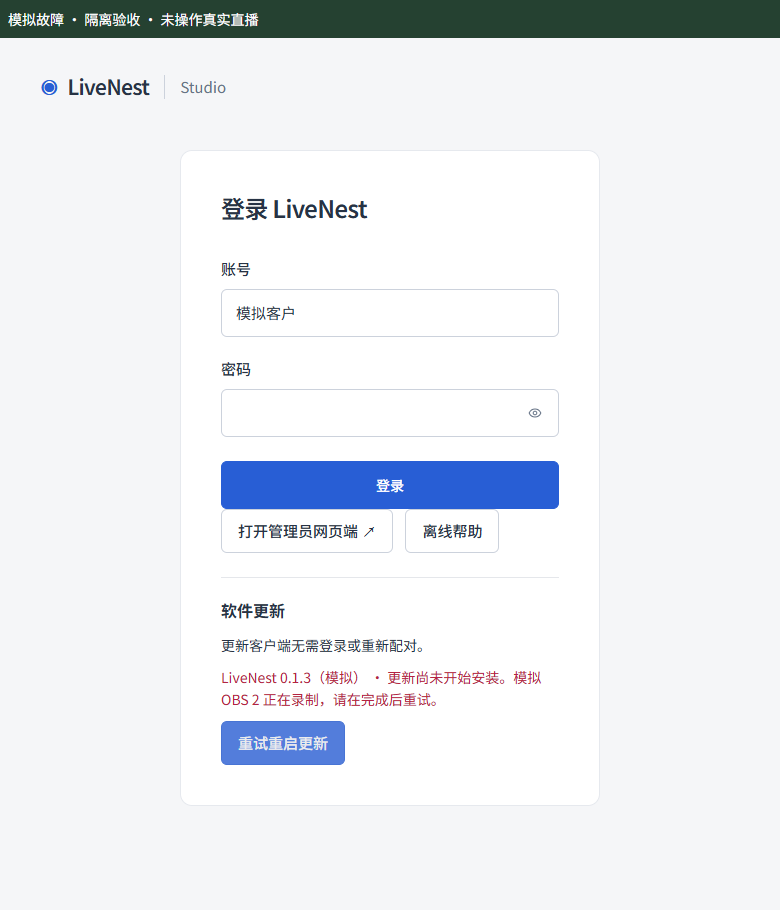
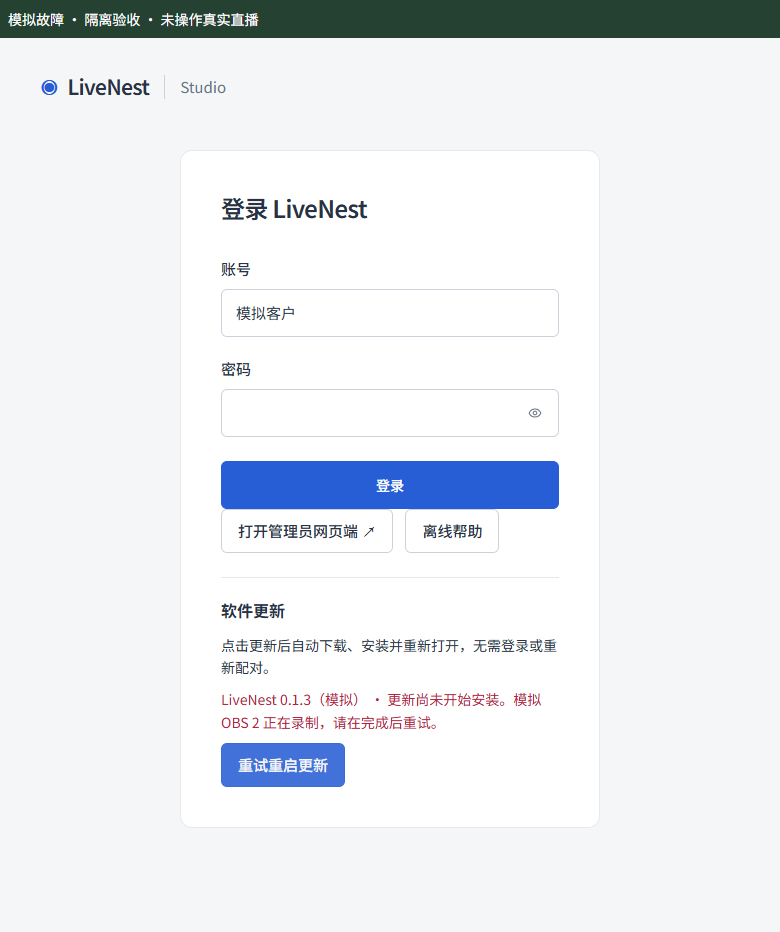
fix(desktop-updater)：一次点击完成下载静默安装和重启

diff --git a/desktop/app/help.tsx b/desktop/app/help.tsx
@@ -11,7 +11,7 @@ const topics = [
   { title: "禁用全局音频", image: "audio.png", steps: ["进入 OBS 设置 → 音频。", "全局音频设备中的桌面音频、麦克风和其他设备全部选已禁用。", "点击应用，再点击确定；只在混音器中静音不等于禁用。"] },
   { title: "画布与帧率", image: "video.png", steps: ["先确认没有推流或录制，再进入设置 → 视频。", "基础画布填写 1920×1080，输出分辨率填写 1280×720。", "常用 FPS 选择 30，保存设置。", "竖屏素材应使用匹配的竖屏画布，不强行拉伸。"] },
   { title: "编码与码率", image: "output.png", steps: ["进入设置 → 输出，选择简单模式。", "初次测试选择软件 x264，视频 4000 Kbps，音频 128 Kbps。", "截图显示的是原机器数值，应按本页文字填写。", "同时运行多个 OBS 时检查 CPU、编码负载和上行带宽。"] },
-  { title: "故障与恢复", image: "", steps: ["设备离线：保持客户端运行，检查电脑出站 HTTPS 网络，点击重新连接。", "OBS 连接失败：核对正确的 OBS 是否运行，以及 WebSocket 端口和密码。", "频道查询失败：先检查直播电脑网络并重新查询；只有明确授权失效才重新授权原频道，应用配置错误请联系管理员。", "配置被阻止：在方便维护时结束直播、完成或取消上传与授权，再重试原操作。", "软件更新无需登录或重新配对。准备失败时查看具体原因；OBS 推流、录制或状态未知时不会安装。Agent 正在处理任务时等待完成后重试重启更新，不要强杀进程。", "旧版本卡在重启更新：通过托盘正常退出客户端，从官方发行页下载新版覆盖安装，保留原数据目录，无需卸载或删除配置。", "未知直播状态：检查 OBS 和 YouTube Studio，不重复点击开播，不删除身份或授权文件。", "关闭窗口会收至托盘；电脑睡眠或关机会中断远程控制。"] },
+  { title: "故障与恢复", image: "", steps: ["设备离线：保持客户端运行，检查电脑出站 HTTPS 网络，点击重新连接。", "OBS 连接失败：核对正确的 OBS 是否运行，以及 WebSocket 端口和密码。", "频道查询失败：先检查直播电脑网络并重新查询；只有明确授权失效才重新授权原频道，应用配置错误请联系管理员。", "配置被阻止：在方便维护时结束直播、完成或取消上传与授权，再重试原操作。", "点击“更新并重启”会自动下载、安装并重新打开，无需登录、重新配对或重复确认。准备失败时查看具体原因；OBS 推流、录制或状态未知时不会安装。Agent 正在处理任务时等待完成后重试重启更新，不要强杀进程。", "旧版本卡在重启更新：通过托盘正常退出客户端，从官方发行页下载新版覆盖安装，保留原数据目录，无需卸载或删除配置。", "未知直播状态：检查 OBS 和 YouTube Studio，不重复点击开播，不删除身份或授权文件。", "关闭窗口会收至托盘；电脑睡眠或关机会中断远程控制。"] },
 ];
 /** 章节切换不改变配置，图片可在断网情况下阅读。 */
 export default function Help({initialTopic="obs"}:{initialTopic?:string}) { const [index, setIndex] = useState(initialTopic==="storage"?1:initialTopic==="recovery"?8:0); const topic = topics[index]; return <div className="desktop-help"><nav aria-label="帮助章节">{topics.map((t, i) => <button className={i === index ? "btn-primary" : "btn-ghost"} key={t.title} onClick={() => setIndex(i)}>{t.title}</button>)}</nav><article><h2>{topic.title}</h2><ol>{topic.steps.map(s => <li key={s}>{s}</li>)}</ol>{topic.image && <img src={"/help/" + topic.image} alt={topic.title + "：编号标注为点击位置"} />}</article></div>; }

diff --git a/tests/desktop-update-manager.test.ts b/tests/desktop-update-manager.test.ts
@@ -7,9 +7,9 @@ vi.mock("../electron/obs-setup", () => ({ assertLocalIdle: mock.idle }));
 import { Manager } from "../electron/manager";
 import { Activity } from "../electron/activity";
 import type { DesktopState } from "../src/shared/desktop";
-it.each([false, true])("installs with paired=%s without cloud RPC or modifying maintenance", async paired => {
+it.each([[false, "update-install"], [true, "update-install"], [true, "update-apply"]] as const)("installs with paired=%s action=%s without cloud RPC or modifying maintenance", async (paired, action) => {
   mock.idle.mockClear(); const settings = { dataRoot: "", instances: [], candidates: [{ id: "candidate" }], archivedCandidates: [{ id: "archived" }], paired, maintenance: "existing-lease", inventoryPending: true };
-  const before = structuredClone(settings); const rpc = vi.fn().mockRejectedValue(new Error("revoked device")); const stop = vi.fn().mockResolvedValue(undefined); const flush = vi.fn().mockResolvedValue(undefined); const allowQuit = vi.fn(); const write = vi.fn();
-  const host = Object.assign(Object.create(Manager.prototype), { settings, busy: false, activity: new Activity(), store: { flush, write }, agent: { stop, rpc }, allowQuit, updates: { install: async (prepare: () => Promise<void>, quit: () => void) => { await prepare(); quit(); return true; } }, state: () => ({ activity: host.activity.value }) as DesktopState });
-  await host.act("update-install"); expect(stop).toHaveBeenCalledOnce(); expect(flush).toHaveBeenCalledOnce(); expect(allowQuit).toHaveBeenCalledOnce(); expect(rpc).not.toHaveBeenCalled(); expect(write).not.toHaveBeenCalled(); expect(settings).toEqual(before); expect(mock.idle).toHaveBeenCalledTimes(2); expect(mock.idle.mock.calls[0][0].instances.map((i: { id: string }) => i.id)).toEqual(["candidate", "archived"]); expect(host.activity.value.status).toBe("complete");
+  const before = structuredClone(settings); const rpc = vi.fn().mockRejectedValue(new Error("revoked device")); const stop = vi.fn().mockResolvedValue(undefined); const flush = vi.fn().mockResolvedValue(undefined); const allowQuit = vi.fn(); const write = vi.fn(); const download = vi.fn().mockResolvedValue(undefined);
+  const host = Object.assign(Object.create(Manager.prototype), { settings, busy: false, activity: new Activity(), store: { flush, write }, agent: { stop, rpc }, allowQuit, updates: { download, install: async (prepare: () => Promise<void>, quit: () => void) => { await prepare(); quit(); return true; } }, state: () => ({ activity: host.activity.value }) as DesktopState });
+  await host.act(action); if (action === "update-apply") { expect(download).toHaveBeenCalledOnce(); expect(download.mock.invocationCallOrder[0]).toBeLessThan(stop.mock.invocationCallOrder[0]); } else expect(download).not.toHaveBeenCalled(); expect(stop).toHaveBeenCalledOnce(); expect(flush).toHaveBeenCalledOnce(); expect(allowQuit).toHaveBeenCalledOnce(); expect(rpc).not.toHaveBeenCalled(); expect(write).not.toHaveBeenCalled(); expect(settings).toEqual(before); expect(mock.idle).toHaveBeenCalledTimes(2); expect(mock.idle.mock.calls[0][0].instances.map((i: { id: string }) => i.id)).toEqual(["candidate", "archived"]); expect(host.activity.value.status).toBe("complete");
 });

diff --git a/tests/desktop-updates.test.ts b/tests/desktop-updates.test.ts
@@ -16,21 +16,20 @@ it("retains version on download failure without automatic download or install", 
   mock.download.mockRejectedValueOnce(new Error("private URL")); await expect(updates.download()).rejects.toMatchObject({ code: "UPDATE_NETWORK" });
   expect(updates.state).toMatchObject({ status: "error", version: "0.1.4", stage: "download" });
 });
-it("cancel preserves download; preparation failure becomes a retryable install error", async () => {
+it("one click needs no confirmation and preparation failure retries the same installer", async () => {
   const updates = downloaded(); const prepare = vi.fn(); const quit = vi.fn();
-  mock.answer.mockResolvedValueOnce({ response: 0 }); expect(await updates.install(prepare, quit)).toBe(false); expect(prepare).not.toHaveBeenCalled();
   mock.answer.mockResolvedValue({ response: 1 }); prepare.mockRejectedValueOnce(new AppError("OBS_MAINTENANCE", "OBS 2 正在录制，请在完成后重试。"));
   await expect(updates.install(prepare, quit)).rejects.toMatchObject({ code: "OBS_MAINTENANCE" });
   expect(quit).not.toHaveBeenCalled(); expect(mock.install).not.toHaveBeenCalled(); expect(updates.state).toMatchObject({ status: "error", stage: "install", version: "0.1.4" });
   expect(updates.state.message).toContain("OBS 2"); expect(updates.state.message).not.toContain("下载完成");
   await updates.check(true); expect(mock.check).not.toHaveBeenCalled(); expect(updates.state.status).toBe("error");
-  await updates.install(prepare, quit); expect(quit).toHaveBeenCalledOnce(); expect(mock.install).toHaveBeenCalledWith(false, true);
+  await updates.install(prepare, quit); expect(quit).toHaveBeenCalledOnce(); expect(mock.install).toHaveBeenCalledWith(true, true); expect(mock.answer).not.toHaveBeenCalled();
 });
 it("shows preparing, rejects duplicate clicks, ignores late download notifications", async () => {
   const updates = downloaded(); mock.answer.mockResolvedValue({ response: 1 });
   let done!: () => void; const wait = new Promise<void>(resolve => { done = resolve; });
   const first = updates.install(() => wait, vi.fn()); await Promise.resolve(); expect(updates.state.status).toBe("preparing");
-  await expect(updates.install(vi.fn(), vi.fn())).rejects.toMatchObject({ code: "UPDATE_STATE" }); expect(mock.answer).toHaveBeenCalledOnce();
+  await expect(updates.install(vi.fn(), vi.fn())).rejects.toMatchObject({ code: "UPDATE_STATE" }); expect(mock.answer).not.toHaveBeenCalled();
   mock.handlers.get("update-downloaded")!({ version: "stale" }); expect(updates.state.version).toBe("0.1.4"); expect(updates.state.status).toBe("preparing");
   done(); await first;
 });

diff --git a/electron/updates.ts b/electron/updates.ts
@@ -1,5 +1,5 @@
 /** 手动下载与本机安全重启；云端登录和配对不参与更新授权。 */
-import { app, autoUpdater as lifecycle, dialog } from "electron";
+import { app, autoUpdater as lifecycle } from "electron";
 import { autoUpdater } from "electron-updater";
 import { existsSync } from "node:fs";
 import path from "node:path";
@@ -53,17 +53,15 @@ export class Updates {
       const accepted = () => { cleanup(); quit(); resolve(); };
       const timer = setTimeout(() => failed(new AppError("UPDATE_INSTALL", "安装程序未确认启动。客户端已保留，请重试重启更新；仍失败时从官方下载页手动安装。")), 10_000);
       this.rejectInstall = failed; lifecycle.once("before-quit-for-update", accepted);
-      try { autoUpdater.quitAndInstall(false, true); } catch (error) { this.fail(error); failed(new AppError(this.state.problem!.code, this.state.message!, 400, this.state.problem)); }
+      try { autoUpdater.quitAndInstall(true, true); } catch (error) { this.fail(error); failed(new AppError(this.state.problem!.code, this.state.message!, 400, this.state.problem)); }
     });
   }
-  /** 确认、检查、排空和启动安装串行执行；取消与失败有不同结果。 */
+  /** 点击明确的更新按钮即授权安装；检查、排空与静默重启串行执行，不重复弹窗。 */
   async install(prepare: () => Promise<void>, quit: () => void) {
     if (this.installing) throw new AppError("UPDATE_STATE", "更新仍在处理，请等待当前操作完成。");
     if (this.state.status !== "downloaded" && !(this.state.status === "error" && this.state.stage === "install" && this.state.problem?.code !== "UPDATE_INTEGRITY")) throw new AppError("UPDATE_STATE", "更新尚未下载完成，请先检查更新状态。");
     this.installing = true;
     try {
-      const answer = await dialog.showMessageBox({ type: "question", title: "重启更新", message: "确认重启 LiveNest 并安装更新？程序将核对 OBS 状态并等待已接收任务完成；不会主动结束直播或录制。", buttons: ["稍后", "重启更新"], defaultId: 0, cancelId: 0 });
-      if (answer.response !== 1) return false;
       this.state = { ...this.state, status: "preparing", stage: "install", automatic: false, problem: undefined, message: "正在核对 OBS 状态并等待 Agent 任务完成…" };
       await prepare();
       this.state = { ...this.state, status: "installing", message: "正在启动安装程序…" };

diff --git a/electron/manager.ts b/electron/manager.ts
@@ -102,7 +102,7 @@ export class Manager {
     if(action === "firewall"){await shell.openExternal("ms-settings:windowsdefender");return this.state();}
     if (this.busy) throw new AppError("DESKTOP", "上一步仍在处理，请稍候。"); this.busy = true; this.message = ""; this.activity.begin(action, typeof input.id === "string" ? input.id : undefined);
     try {
-      if (!this.settings.dataRoot && !["directory", "check", "autostart", "update-check", "update-download", "update-install"].includes(action)) throw new AppError("DESKTOP", "请先选择 LiveNest 数据位置。");
+      if (!this.settings.dataRoot && !["directory", "check", "autostart", "update-check", "update-download", "update-install", "update-apply"].includes(action)) throw new AppError("DESKTOP", "请先选择 LiveNest 数据位置。");
       if (action === "check") this.checks = await diagnose(this.settings, this.resources);
       else if (action === "diagnose-obs") { const item=[...this.settings.instances,...(this.settings.candidates||[])].find(i=>i.id===input.id);if(!item)throw new AppError("DESKTOP", "请选择 OBS。");configureCore(()=>environment({...this.settings,instances:[...this.settings.instances.filter(i=>i.id!==item.id),item]}));const result=await checkObsNetwork(item);this.checks=[...this.checks.filter(c=>c.id!==result.id),result]; }
       else if (action === "pair") { if (!this.settings.instances.length || this.settings.instances.some(i => !i.initialized)) throw new AppError("DESKTOP", "请先完成 OBS 配置。"); await this.pair(input.invitation); }
@@ -125,7 +125,8 @@ export class Manager {
       } else if (action === "autostart") app.setLoginItemSettings({ openAtLogin: z.boolean().parse(input.enabled), path: app.getPath("exe"), args: ["--hidden"] });
       else if (action === "update-check") await this.updates.check();
       else if (action === "update-download") await this.updates.download();
-      else if (action === "update-install") {
+      else if (action === "update-install" || action === "update-apply") {
+        if (action === "update-apply") await this.updates.download();
         const result = await runLocalUpdate({
           wasRunning: !!this.agent.child,
           checkIdle: () => assertLocalIdle({ ...this.settings, instances: [...this.settings.instances, ...(this.settings.candidates || []), ...(this.settings.archivedCandidates || [])] }),

diff --git a/src/shared/desktop.ts b/src/shared/desktop.ts
@@ -12,10 +12,10 @@ export type DesktopState = { problems?: Problem[];
 };
 export type ObsCandidate = { exe: string; version: string; running: boolean; processKnown?: boolean; attached: boolean; error?: string };
 export type ObsScan = { running: boolean; canceled: boolean; deep: boolean; results: ObsCandidate[]; drives: string[]; completedDrives: string[]; inaccessible: string[]; visited: number; current?: string; error?: string };
-export type DesktopAction = "restore-candidate" | "scan" | "scan-cancel" | "import-obs" | "firewall" | "diagnose-obs" | "check" | "prepare" | "pair" | "start" | "add" | "rename" | "attach" | "repair" | "repair-managed" | "discard" | "directory" | "open-data" | "autostart" | "web" | "update-check" | "update-download" | "update-install";
+export type DesktopAction = "restore-candidate" | "scan" | "scan-cancel" | "import-obs" | "firewall" | "diagnose-obs" | "check" | "prepare" | "pair" | "start" | "add" | "rename" | "attach" | "repair" | "repair-managed" | "discard" | "directory" | "open-data" | "autostart" | "web" | "update-check" | "update-download" | "update-install" | "update-apply";
 export type DesktopResult = { ok: true; state: DesktopState; cancelled?: boolean } | { ok: false; problem: Problem; fields?: Record<string,string> };
 export type LocalUpdateState = Pick<DesktopState, "version" | "busy" | "update">;
-export type UpdateCommand = "update-check" | "update-download" | "update-install";
+export type UpdateCommand = "update-check" | "update-download" | "update-install" | "update-apply";
 export type LocalUpdateResult = { ok: boolean; state: LocalUpdateState; cancelled?: boolean; problem?: Problem };
 export type DesktopBridge = { session(): Promise<{ authenticated: boolean; username?: string }>; login(username: string, password: string): Promise<{ ok: boolean; message?: string }>; logout(): Promise<void>; state(): Promise<DesktopState>; act(action: DesktopAction, input?: Record<string, unknown>): Promise<DesktopResult>; updateState(): Promise<LocalUpdateState>; update(action: UpdateCommand): Promise<LocalUpdateResult> };
 

diff --git a/desktop/app/local-updates.tsx b/desktop/app/local-updates.tsx
@@ -22,7 +22,7 @@ export function UpdateProvider({ children }: { children: React.ReactNode }) {
   }, []);
   /** 失败保留原安装阶段；取消不是成功，也不构造故障提示。 */
   async function act(action: DesktopAction) {
-    if (running.current || !["update-check", "update-download", "update-install"].includes(action)) return false;
+    if (running.current || !["update-check", "update-download", "update-install", "update-apply"].includes(action)) return false;
     running.current = true; revision.current++; setPending(true); setError("");
     try {
       if (!window.liveNest?.update) throw new Error("bridge unavailable");
@@ -39,5 +39,5 @@ export function useLocalUpdates() { return useContext(Context); }
 /** 登录过期、配对撤销或云端离线时仍能检查、下载和安全安装。 */
 export function LoginUpdate() {
   const local = useLocalUpdates();
-  return <section aria-label="软件更新" className="login-update"><h2>软件更新</h2><p>更新客户端无需登录或重新配对。</p><p role={local.state?.update.status === "error" ? "alert" : "status"}>{local.state ? "LiveNest " + local.state.version + " · " + (local.state.update.message || "尚未检查更新") : "正在读取本机更新状态…"}</p>{local.error && <p role="alert">{local.error}</p>}<UpdateAction update={local.state?.update || { status: "idle" }} busy={local.pending || !!local.state?.busy} act={local.act} /></section>;
+  return <section aria-label="软件更新" className="login-update"><h2>软件更新</h2><p>点击更新后自动下载、安装并重新打开，无需登录或重新配对。</p><p role={local.state?.update.status === "error" ? "alert" : "status"}>{local.state ? "LiveNest " + local.state.version + " · " + (local.state.update.message || "尚未检查更新") : "正在读取本机更新状态…"}</p>{local.error && <p role="alert">{local.error}</p>}<UpdateAction update={local.state?.update || { status: "idle" }} busy={local.pending || !!local.state?.busy} act={local.act} /></section>;
 }

diff --git a/desktop/app/page.tsx b/desktop/app/page.tsx
@@ -34,7 +34,7 @@ function Desktop({ logout, username }: { logout: () => Promise<void>; username: 
   }, []);
   /** 写操作去重，失败保留表单，成功后采用宿主最新快照。 */
   async function act(action: DesktopAction, input?: Record<string, unknown>) {
-    if (["update-check", "update-download", "update-install"].includes(action)) return localUpdates.act(action);
+    if (["update-check", "update-download", "update-install", "update-apply"].includes(action)) return localUpdates.act(action);
     if (pending) return false; setProblem(undefined); setFailedActivity(undefined); setPending(true); setActiveAction(action); setFailedStep(0); setError("");
     if (action !== "web") setState(previous => previous && ({ ...previous, activity: { instanceId: typeof input?.id === "string" ? input.id : undefined, action, step: activityStep(action), status: "running", stage: "正在检查操作条件", startedAt: now } }));
     try { if (!window.liveNest) throw new Error("桌面连接不可用。"); const result=await window.liveNest.act(action,input); if(!result.ok){const message=result.problem.message+(result.fields?" · "+Object.entries(result.fields).map(([key,value])=>({port:"端口",password:"密码",name:"名称"}[key]||key)+"："+value).join("；"):"");const failure={...result.problem,message};setFailedActivity({action,instanceId:failure.target.instanceId || (typeof input?.id==="string"?input.id:undefined),step:activityStep(action),status:"failed",stage:failure.stage,attemptId:failure.attemptId,startedAt:failure.observedAt,problem:failure,message});setProblem(failure);setError(message);setFailedStep(activityStep(action));const field=Object.keys(result.fields||{})[0];if(field)document.querySelector<HTMLInputElement>('[name="'+CSS.escape(field)+'"]')?.focus();return false;} setState(result.state);if(!result.cancelled && action==="pair")setInvitation("");return !result.cancelled; }

diff --git a/desktop/app/update-action.tsx b/desktop/app/update-action.tsx
@@ -6,7 +6,7 @@ export default function UpdateAction({ update, busy, act }: UpdateActionProps) {
   const updating = ["checking", "downloading", "preparing", "installing"].includes(update.status);
   const downloadRetry=update.status==="error"&&update.stage==="download"&&update.problem?.code!=="UPDATE_INTEGRITY";
   const installRetry=update.status==="error"&&update.stage==="install"&&update.problem?.code!=="UPDATE_INTEGRITY";
-  const action: DesktopAction = update.status === "available" || downloadRetry ? "update-download" : update.status === "downloaded" || installRetry ? "update-install" : "update-check";
-  const label = installRetry ? "重试重启更新" : downloadRetry ? "重新下载" : update.status === "available" ? "下载更新" : update.status === "downloaded" ? "重启更新" : update.status === "preparing" ? "正在准备重启…" : update.status === "checking" ? "正在检查…" : update.status === "installing" ? "正在启动安装…" : update.status === "downloading" ? "正在下载 " + Math.round(update.percent || 0) + "%" : "检查更新";
+  const action: DesktopAction = update.status === "available" || downloadRetry ? "update-apply" : update.status === "downloaded" || installRetry ? "update-install" : "update-check";
+  const label = installRetry ? "重试重启更新" : downloadRetry ? "重试更新并重启" : update.status === "available" ? "更新并重启" : update.status === "downloaded" ? "重启更新" : update.status === "preparing" ? "正在准备重启…" : update.status === "checking" ? "正在检查…" : update.status === "installing" ? "正在启动安装…" : update.status === "downloading" ? "正在下载 " + Math.round(update.percent || 0) + "%" : "检查更新";
   return <button className={action !== "update-check" ? "btn-primary" : ""} disabled={busy || updating} onClick={() => void act(action)}>{label}</button>;
 }

diff --git a/electron/main.ts b/electron/main.ts
@@ -61,7 +61,7 @@ async function launch() {
   ipcMain.handle("desktop:update-state", event => { trusted(event); return updates.state(); });
   ipcMain.handle("desktop:update", (event, name) => { trusted(event); return updates.act(name); });
   ipcMain.handle("desktop:state", async event => { trusted(event); await auth.require(manager.settings.paired ? manager.settings.identity?.agentId : undefined, false); return manager.state(); });
-  const action = z.enum(["restore-candidate", "scan", "scan-cancel", "import-obs", "firewall", "diagnose-obs", "check", "prepare", "pair", "start", "add", "rename", "attach", "repair", "repair-managed", "discard", "directory", "open-data", "autostart", "web", "update-check", "update-download", "update-install"]);
+  const action = z.enum(["restore-candidate", "scan", "scan-cancel", "import-obs", "firewall", "diagnose-obs", "check", "prepare", "pair", "start", "add", "rename", "attach", "repair", "repair-managed", "discard", "directory", "open-data", "autostart", "web", "update-check", "update-download", "update-install", "update-apply"]);
   ipcMain.handle("desktop:act", async (event, name, input) => {
     try { trusted(event); if (name !== "web") await auth.require(manager.settings.paired ? manager.settings.identity?.agentId : undefined);
       const state=await manager.act(action.parse(name), input === undefined ? {} : z.record(z.string(),z.unknown()).parse(input));

diff --git a/electron/update-access.ts b/electron/update-access.ts
@@ -3,7 +3,7 @@ import { z } from "zod";
 import { problemFor } from "../src/core/errors";
 import type { DesktopAction, DesktopState, LocalUpdateResult, LocalUpdateState } from "../src/shared/desktop";
 type Host = { busy: boolean; updates: { state: DesktopState["update"] }; act(action: DesktopAction): Promise<DesktopState> };
-const command = z.enum(["update-check", "update-download", "update-install"]);
+const command = z.enum(["update-check", "update-download", "update-install", "update-apply"]);
 export class UpdateAccess {
   /** 依赖仅限本机更新协调器；不会调用云端账号或设备权限接口。 */
   constructor(private host: Host, private version: () => string) {}

diff --git a/docs/desktop/0.1.4发布.md b/docs/desktop/0.1.4发布.md
@@ -7,9 +7,9 @@
 
 | 编号 | 同类审计结论 | 处理与证据 |
 | --- | --- | --- |
-| U01 | 配对失效、登录过期或云端不可用阻止更新 | 本地可信 IPC 仅允许检查、下载、安装；最小 DTO 仅含版本、忙碌和更新状态。登录页、标题栏及设置共用入口。真实 Electron 未登录 IPC 验收通过。 |
+| U01 | 配对失效、登录过期或云端不可用阻止更新 | 本地可信 IPC 仅允许检查、下载、安装及组合更新；最小 DTO 仅含版本、忙碌和更新状态。登录页、标题栏及设置共用入口。真实 Electron 未登录 IPC 验收通过。 |
 | U02 | 未选择数据位置也无法安装更新 | 允许首次使用时更新；Manager 回归覆盖空目录和已有失效配对，原维护凭据不改写。 |
-| U03 | 准备失败仍显示绿色下载完成，重试变成无效检查 | preparing/error/install 阶段与原动作重试；失败保留已知版本，取消单独处理，错误不记作成功。 |
+| U03 | 准备失败仍显示绿色下载完成，重试变成无效检查 | preparing/error/install 阶段与原动作重试；失败保留已知版本，错误不记作成功。 |
 | U04 | 安装器失败前已放行应用退出 | 仅在更新器 before-quit-for-update 事件放行；异常、错误事件或交接超时保留客户端，并显示启动安装失败。 |
 | U05 | 重复点击或旧通知覆盖当前准备结果 | 宿主串行锁、安装锁、界面请求序号；晚到下载事件与旧配置快照不会覆盖安装错误。 |
 | U06 | 维护连接失败退化成通用错误，配对原因被掩盖 | 无会话 RPC 返回 AGENT_CONNECTION，非法操作返回 AGENT_REQUEST；ready 与退出错误保留 AGENT_AUTH 等原因码。 |
@@ -19,21 +19,21 @@
 
 ## 客户使用
 
-- 新版的登录页可检查、下载、重启更新，无需先解决账号或设备配对问题。
-- 确认重启后，先检查本机 OBS、排空已接收任务、确认 Agent 退出，再复查 OBS 和配置落盘。推流、录制、状态未知或任务未结束会给出具体阻塞提示；程序不会自动结束直播。
+- 新版登录页和设置中点击“更新并重启”，自动完成下载、检查、静默安装与重新打开；已有下载缓存时点击“重启更新”。无需重复确认、手动找安装包或先解决配对问题。
+- 点击更新后，先检查本机 OBS、排空已接收任务、确认 Agent 退出，再复查 OBS 和配置落盘。推流、录制、状态未知或任务未结束会给出具体阻塞提示；程序不会自动结束直播。
 - 安装准备失败显示“更新尚未开始安装”及原因，按钮为“重试重启更新”；下载、校验和安装错误区分处理。
 - **旧版卡住时**：等待现有任务结束，通过托盘正常退出 LiveNest，从[官方发行页](https://github.com/Doris619619/LiveNest-Releases/releases/latest)下载新版覆盖安装，保留原数据目录。不要强杀、卸载或删除身份文件。旧版本自身的更新逻辑无法靠下载新包修正。
 - 网站下载版本同步为 0.1.4；必须先发布并验证安装资产，再部署下载页，避免出现空链接。
 
 ## 验证
 
-2026-09-23 本地完整 `npm run verify` 通过：50 个测试文件、346 项回归、8 项部署测试、类型检查、lint、网页及 Agent 构建。下载页版本和升级帮助随后补充，重新构建相关产物；PR CI 会复查最终提交。
+2026-09-23 本地完整 `npm run verify` 通过：50 个测试文件、347 项回归、8 项部署测试、类型检查、lint、网页及 Agent 构建。下载页版本和升级帮助随后补充，重新构建相关产物；PR CI 会复查最终提交。
 
-- `desktop-updates.test.ts`：取消、准备失败、原阶段重试、重复点击、迟到事件、安装异常/错误事件/超时、下载网络/空间/校验错误与脱敏。
+- `desktop-updates.test.ts`：无需重复确认、准备失败、原阶段重试、重复点击、迟到事件、安装异常/错误事件/超时、下载网络/空间/校验错误与脱敏。
 - `desktop-local-update.test.ts`、`desktop-update-manager.test.ts`：本机检查与排空顺序、开播竞态、排空超时、保存失败、连接恢复失败、未登录 DTO 白名单、原维护状态保留。
 - `desktop-agent-host.test.ts`、`desktop-shutdown.test.ts`：真实原因分类及现有退出保护。
 - `npm run desktop:build`：NSIS 构建和包后检查通过，核对 ASAR 隔离、离线资源、内置 Node 和 Electron fuses。
-- `node scripts/desktop/update-acceptance.mjs`：真实 Electron 使用独立临时 userData，验证未登录更新、未选择数据位置、非更新操作拒绝、最小 DTO、Renderer Node 隔离及 780px 窗口；浏览器合成桥接验证录制阻塞、正确重试、取消、失效配对、旧状态隔离和 Escape 焦点恢复。
+- `node scripts/desktop/update-acceptance.mjs`：真实 Electron 使用独立临时 userData，验证未登录更新、未选择数据位置、非更新操作拒绝、最小 DTO、Renderer Node 隔离及 780px 窗口；浏览器合成桥接验证录制阻塞、一键更新与正确重试、失效配对、旧状态隔离和 Escape 焦点恢复。
 
 下图均为**模拟故障**，不是实际直播或真实安装升级证据。
 
